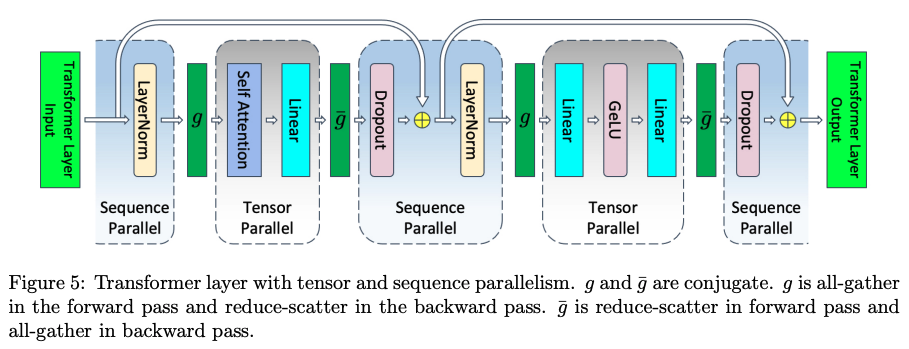
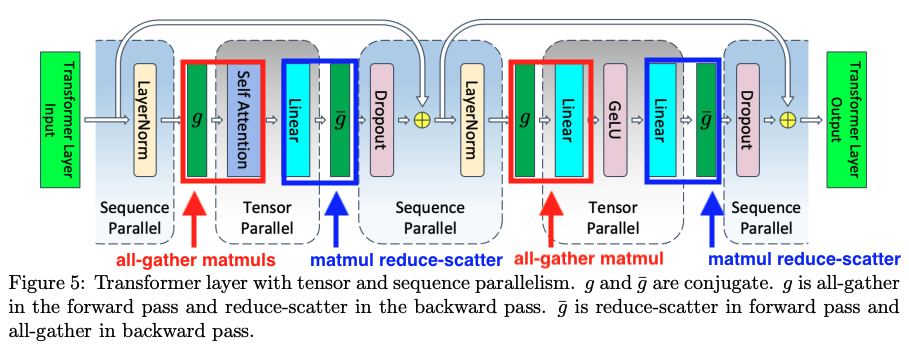
update async tp diagrams

Changed region(s): [[0.1232, 0.1433, 0.4004, 0.7736], [0.3388, 0.1719, 0.7393, 0.7736], [0.7085, 0.1433, 1.0, 0.7736]]

diff --git a/docs/_posts/2025-04-09-async-tp.md b/docs/_posts/2025-04-09-async-tp.md
@@ -1,6 +1,6 @@
 ---
 layout: post
-title:  "Async TP"
+title:  "Deep dive: overlapping compute and comms in tensor parallelism"
 date:   2025-03-30 12:45:51 -0700
 categories: ml performance
 ---
@@ -12,6 +12,8 @@ categories: ml performance
 
 In a [previous post](./2025-03-30-illustrated-megatron.md) we did a deep-dive into Megatron-style tensor parallelism. In this post, we'll look at an additional optimization building on this prior work: *asynchronous*  tensor parallelism, as described in the paper [Overlap Communication with Dependent Computation via
 Decomposition in Large Deep Learning Models](https://dl.acm.org/doi/pdf/10.1145/3567955.3567959) and implemented in PyTorch.
+
+Note other methods[^4] have been proposed for achieving compute/comms overlap in TP, but this post will focus on the method natively supported in PyTorch, dubbed **async TP**.
 
 ## TL;DR
 
@@ -103,6 +105,8 @@ Critically, the NCCL all-gather implementation is a blocking, multi-device opera
 
 The diagrams below visualize this process:
 
+**Notation**: diagrams use the notation  $$A_{i} \cdot B_{j} = C_{ij}$$.
+
 <img src="/images/async-tp/original-all-gather-matmul.png" alt="original-all-gather-matmul">
 
 The key insight here is that we can actually compute $$A_0 \cdot B_0 = C_{00}$$ and $$A_1 \cdot B_0 = C_{01}$$ independently, there is no dependency between them. 
@@ -125,21 +129,31 @@ The diagrams below visualize this process:
 
 <img src="/images/async-tp/async-tp-all-gather-matmul-part2.png" alt="async-tp-all-gather-matmul-part2" style="width: 100%">
 
+As you can see, the decomposed all-gather has mathematically equivalent results to the original, but with overlapped compute and comms!
+
 Next, we'll look at how to decompose the matmul reduce-scatter patterns that occur in TP+SP.
 
 ## Decomposing matmul reduce-scatters
 Decomposing matmul reduce-scatters is a bit tricker to understand, so let's take it step by step.
 
 
-<img src="/images/async-tp/original-matmul-reduce-scatter-part1.png" alt="original-matmul-reduce-scatter-part1" style="width: 100%">
+The key difference here compared to decomposed all-gather matmuls is that we pass around the **accumulator** (output buffer) rather than the shards of the input activations.
 
-<img src="/images/async-tp/original-matmul-reduce-scatter-part2.png" alt="original-matmul-reduce-scatter-part2" style="width: 100%">
+Note that the **input activations** to the matmul reduce-scatter are the **output activations** of our prior all-gather matmul. 
 
-<img src="/images/async-tp/async-tp-matmul-reduce-scatter-part1.png" alt="async-tp-matmul-reduce-scatter-part1" style="width: 100%">
+**Notation note**: diagrams use notation of $$C_{ij} \cdot D_{k} = E_{ijk}$$.
 
-<img src="/images/async-tp/async-tp-matmul-reduce-scatter-part2.png" alt="async-tp-matmul-reduce-scatter-part2" style="width: 100%">
+<img src="/images/async-tp/original-matmul-rs-1.png" alt="original-matmul-reduce-scatter-part1" style="width: 100%">
 
-<img src="/images/async-tp/async-tp-matmul-reduce-scatter-part3.png" alt="async-tp-matmul-reduce-scatter-part3" style="width: 100%">
+<img src="/images/async-tp/original-matmul-rs-2.png" alt="original-matmul-reduce-scatter-part1" style="width: 100%">
+
+<img src="/images/async-tp/async-tp-matmul-rs-1.png" alt="async-tp-matmul-rs1" style="width: 100%">
+
+<img src="/images/async-tp/async-tp-matmul-rs-2.png" alt="async-tp-matmul-rs2" style="width: 100%">
+
+<img src="/images/async-tp/async-tp-matmul-rs-3.png" alt="async-tp-matmul-rs3" style="width: 100%">
+
+As you can see, the final results of the decomposed matmul reduce-scatter are equivalent to that of the original, but with the communication overlapped with the computation!
 
 ## Translating theory into practice: challenges at the hardware level
 
@@ -147,12 +161,13 @@ Given this conceptual understanding, we now see that in theory we should be able
 
 However, translating theory into practice can be non-trivial and full of unexpected oddities arising from implementation details of the hardware/software stack. So how can we implement such in an approach that actually improves upon vanilla TP+SP performance in practice?
 
-## Quantization
-
 ## Implementation
 TODO
 
+## Quantization: improving 
+TODO
 
 [^1]: To learn more about the TP+SP parallelization strategy being optimized by async TP, you can read the original paper [Reducing Activation Recomputation in Large Language Models](https://arxiv.org/pdf/2205.05198) or watch my presentatin on the topic [here](https://www.youtube.com/watch?v=9o2TXexHUh8).
 [^2]: See how copy engines fit into GPU architecture [here](https://old.hotchips.org/hc30/2conf/2.01_Nvidia_NVswitch_HotChips2018_DGX2NVS_Final.pdf)
 [^3]: [Docs](https://docs.nvidia.com/deeplearning/nccl/user-guide/docs/api/p2p.html) on NCCL p2p send/recv ops
+[^4]: [Distributed GEMM](https://blog.shi-labs.com/distributed-gemm-88be6a481e2b)

diff --git a/docs/_posts/2025-03-30-illustrated-megatron.md b/docs/_posts/2025-03-30-illustrated-megatron.md
@@ -264,7 +264,7 @@ Now that we have our $$Q_i$$, $$K_i$$, and $$V_i$$ projections for each head, we
 
 With the attention activations for each head, we can now pass through the final linear projection $$W^O$$, which has been partitioned *row-wise* across devices. As shown in the [attention review](#optional-attention-review) above, the $$W^O$$ projection is normally applied to the **concatenated** attention heads in the typical unsharded computation. So to maintain mathematical fidelity with the unsharded computation, we now need to all-reduce the outputs before proceeding with the dropout layer:
 
-<img src="/images/megatron-diagrams/attention-linear-output.png" alt="attention-linear-output" style="width: auto;">
+<img src="/images/megatron-diagrams/attention-all-reduce.png" alt="attention-linear-output" style="width: auto;">
 
 One natural question may arise at this point: why are we doing an all-reduce here and not an all-gather here? We parallelized along the `num_heads` dimension, and normally in single-device training we concatenate the attention heads, so wouldn't the analogous thing to do in multi-device training be to all-gather the head outputs together? 
 
